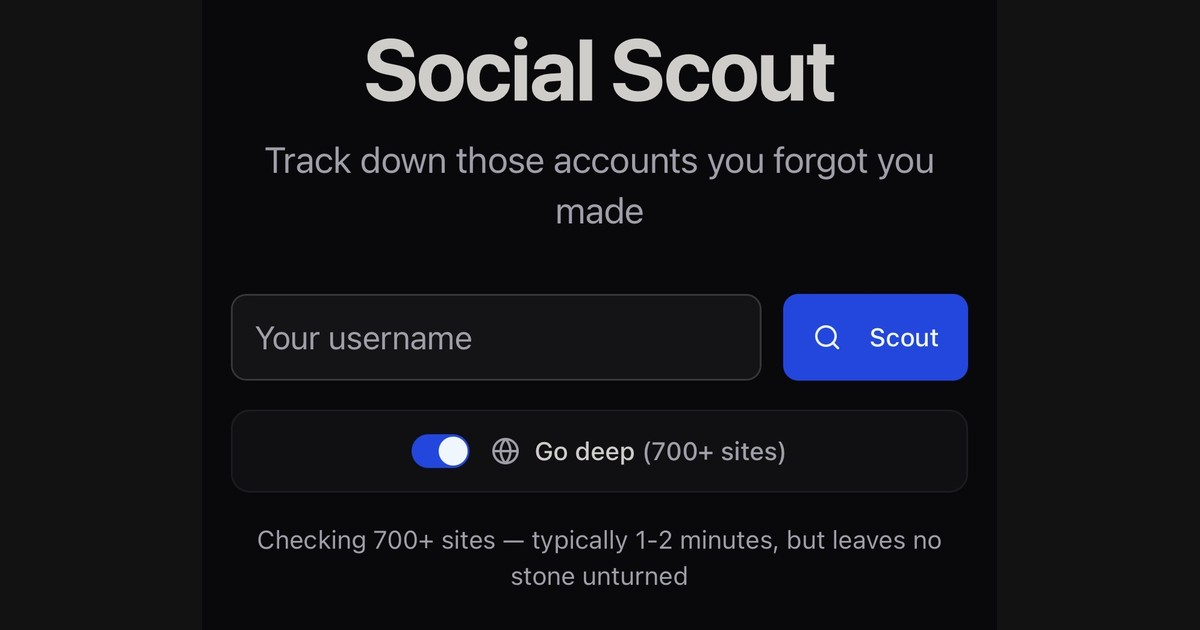
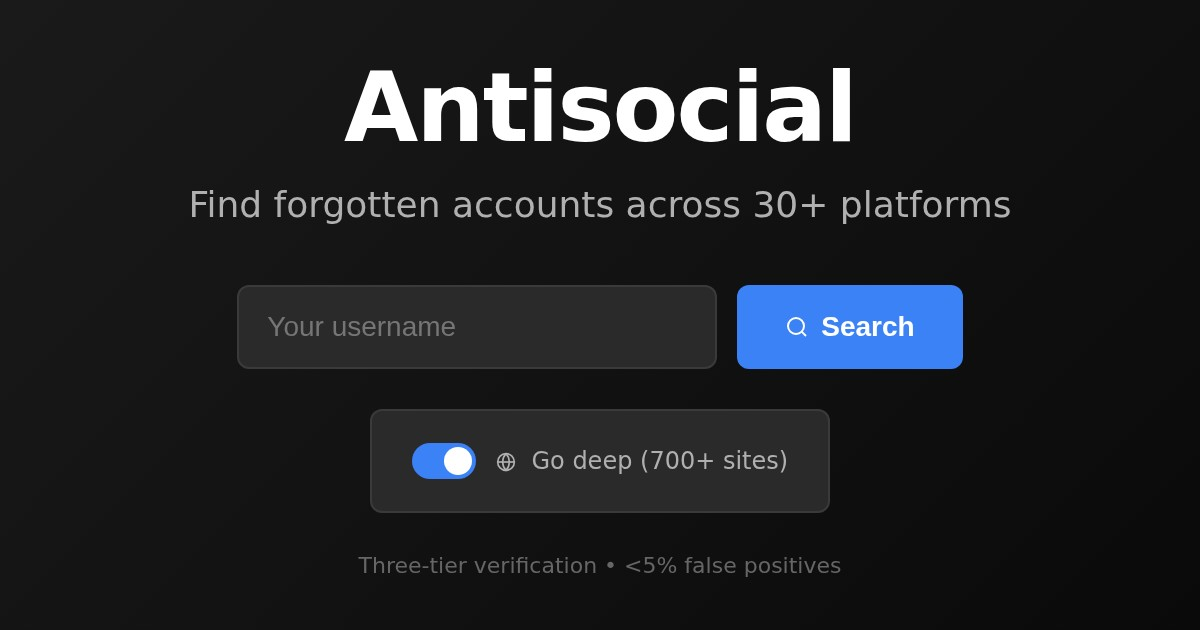
session checkpoint: 2026-02-14 01:52

Changed region(s): [[0.185, 0.4524, 0.8325, 0.8143], [0.1542, 0.0603, 0.8325, 0.3619], [0.2158, 0.8444, 0.8017, 0.9349]]

diff --git a/frontend/generate-og-image.html b/frontend/generate-og-image.html
@@ -1,0 +1,142 @@
+<!DOCTYPE html>
+<html lang="en">
+<head>
+    <meta charset="UTF-8">
+    <meta name="viewport" content="width=1200, height=630">
+    <style>
+        * {
+            margin: 0;
+            padding: 0;
+            box-sizing: border-box;
+        }
+
+        body {
+            width: 1200px;
+            height: 630px;
+            background: linear-gradient(135deg, #1a1a1a 0%, #0a0a0a 100%);
+            display: flex;
+            flex-direction: column;
+            justify-content: center;
+            align-items: center;
+            font-family: -apple-system, BlinkMacSystemFont, 'Segoe UI', system-ui, sans-serif;
+            color: white;
+            padding: 60px;
+        }
+
+        h1 {
+            font-size: 96px;
+            font-weight: 700;
+            margin-bottom: 20px;
+            letter-spacing: -2px;
+        }
+
+        .tagline {
+            font-size: 36px;
+            color: #b0b0b0;
+            margin-bottom: 60px;
+            text-align: center;
+            max-width: 900px;
+        }
+
+        .input-container {
+            display: flex;
+            gap: 20px;
+            margin-bottom: 40px;
+        }
+
+        input {
+            width: 480px;
+            padding: 24px 28px;
+            background: #2a2a2a;
+            border: 2px solid #3a3a3a;
+            border-radius: 12px;
+            color: white;
+            font-size: 28px;
+        }
+
+        button {
+            padding: 24px 48px;
+            background: #3b82f6;
+            border: none;
+            border-radius: 12px;
+            color: white;
+            font-size: 28px;
+            font-weight: 600;
+            cursor: pointer;
+            display: flex;
+            align-items: center;
+            gap: 12px;
+        }
+
+        .toggle-container {
+            background: #2a2a2a;
+            border: 2px solid #3a3a3a;
+            border-radius: 12px;
+            padding: 32px 40px;
+            display: flex;
+            align-items: center;
+            gap: 20px;
+            margin-bottom: 40px;
+        }
+
+        .toggle {
+            width: 64px;
+            height: 36px;
+            background: #3b82f6;
+            border-radius: 18px;
+            position: relative;
+        }
+
+        .toggle::after {
+            content: '';
+            position: absolute;
+            width: 28px;
+            height: 28px;
+            background: white;
+            border-radius: 50%;
+            top: 4px;
+            right: 4px;
+        }
+
+        .toggle-text {
+            font-size: 24px;
+            color: #b0b0b0;
+        }
+
+        .footer {
+            font-size: 22px;
+            color: #666;
+            text-align: center;
+        }
+    </style>
+</head>
+<body>
+    <h1>Antisocial</h1>
+    <div class="tagline">Find forgotten accounts across 30+ platforms</div>
+
+    <div class="input-container">
+        <input type="text" placeholder="Your username" readonly>
+        <button>
+            <svg width="24" height="24" viewBox="0 0 24 24" fill="none" stroke="currentColor" stroke-width="2">
+                <circle cx="11" cy="11" r="8"></circle>
+                <path d="m21 21-4.35-4.35"></path>
+            </svg>
+            Search
+        </button>
+    </div>
+
+    <div class="toggle-container">
+        <div class="toggle"></div>
+        <div class="toggle-text">
+            <svg width="20" height="20" viewBox="0 0 24 24" fill="none" stroke="currentColor" stroke-width="2" style="display: inline; vertical-align: middle; margin-right: 8px;">
+                <circle cx="12" cy="12" r="10"></circle>
+                <path d="M12 2a14.5 14.5 0 0 0 0 20 14.5 14.5 0 0 0 0-20"></path>
+                <path d="M2 12h20"></path>
+            </svg>
+            Go deep (700+ sites)
+        </div>
+    </div>
+
+    <div class="footer">Three-tier verification • &lt;5% false positives</div>
+</body>
+</html>
